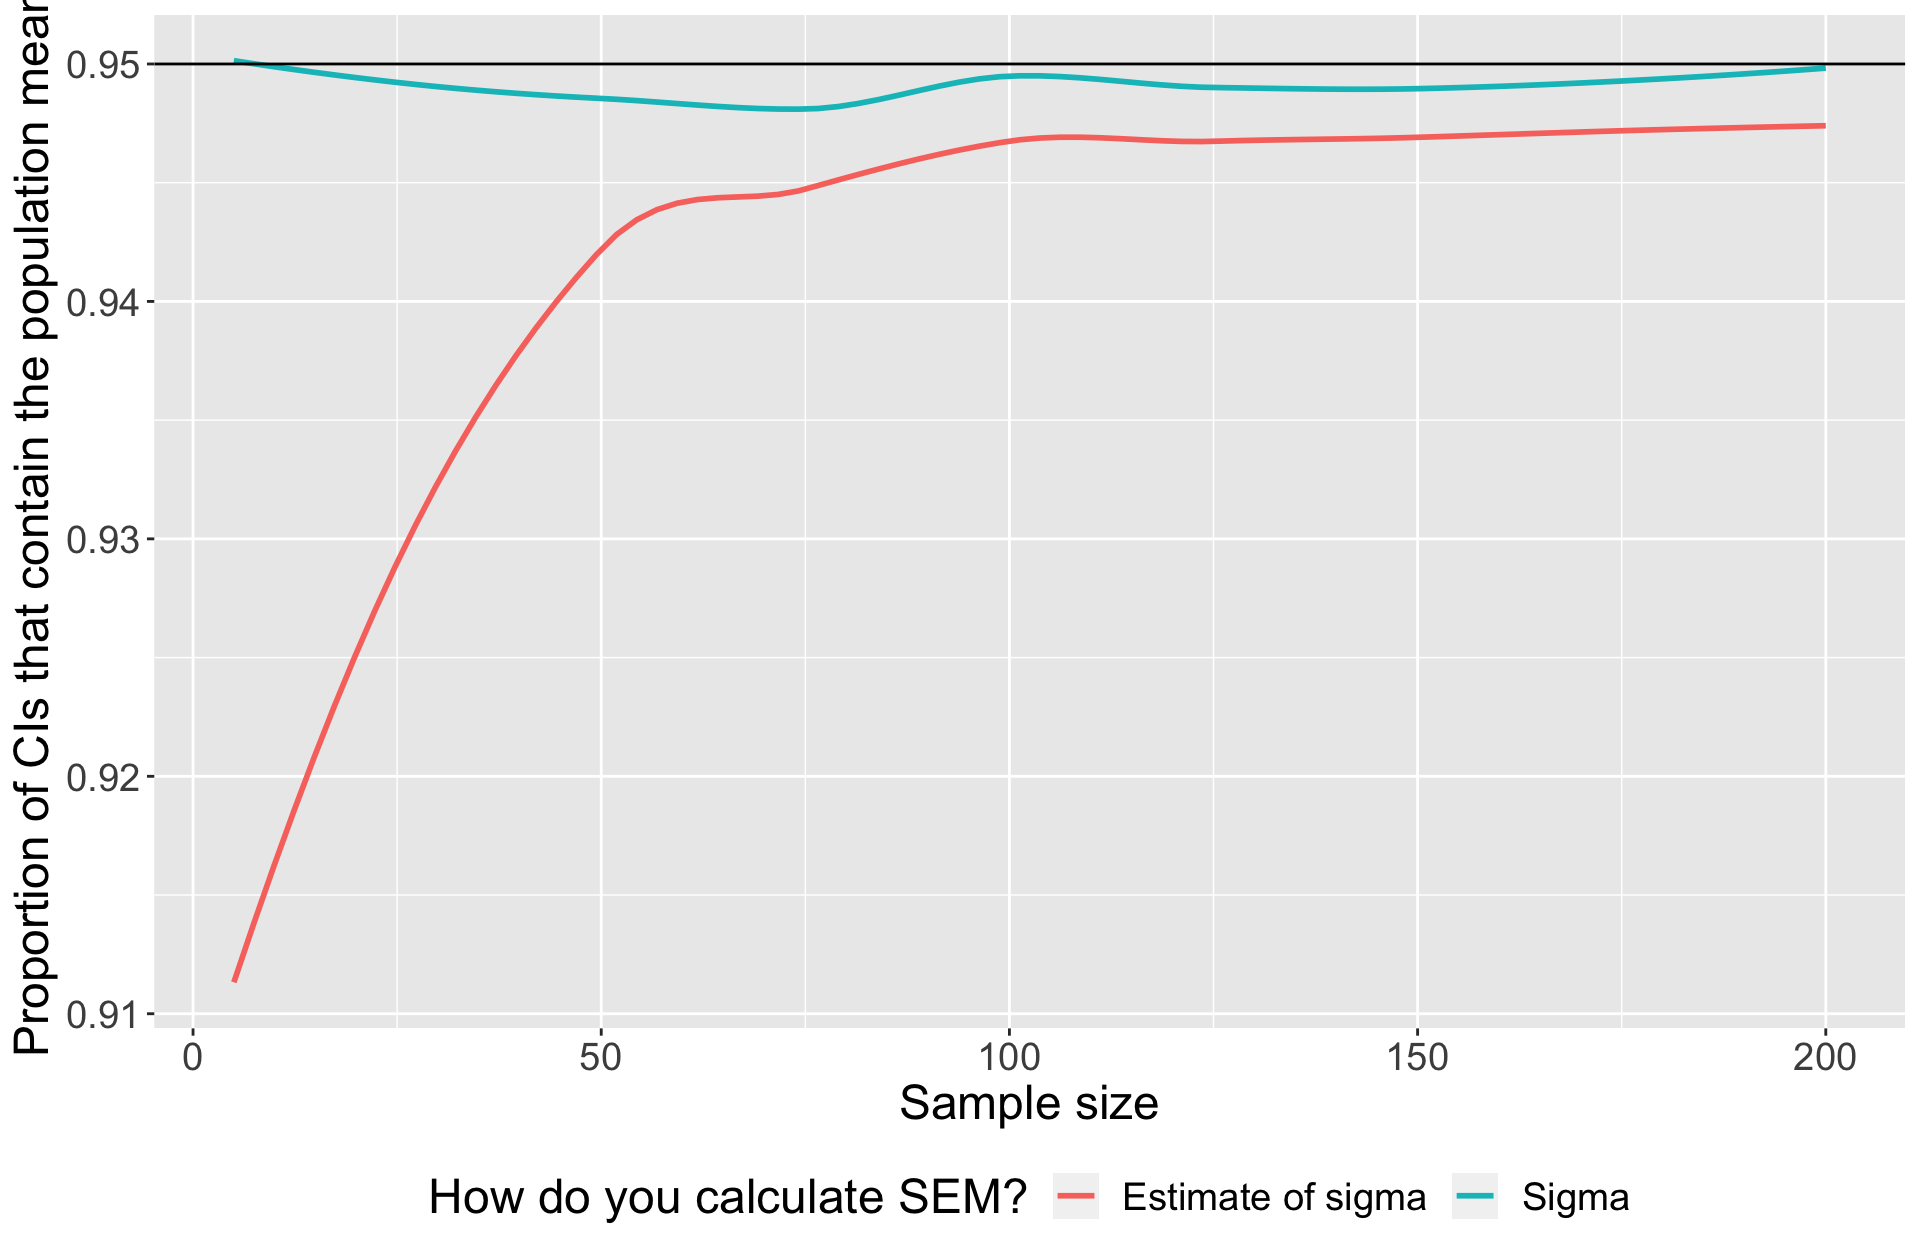
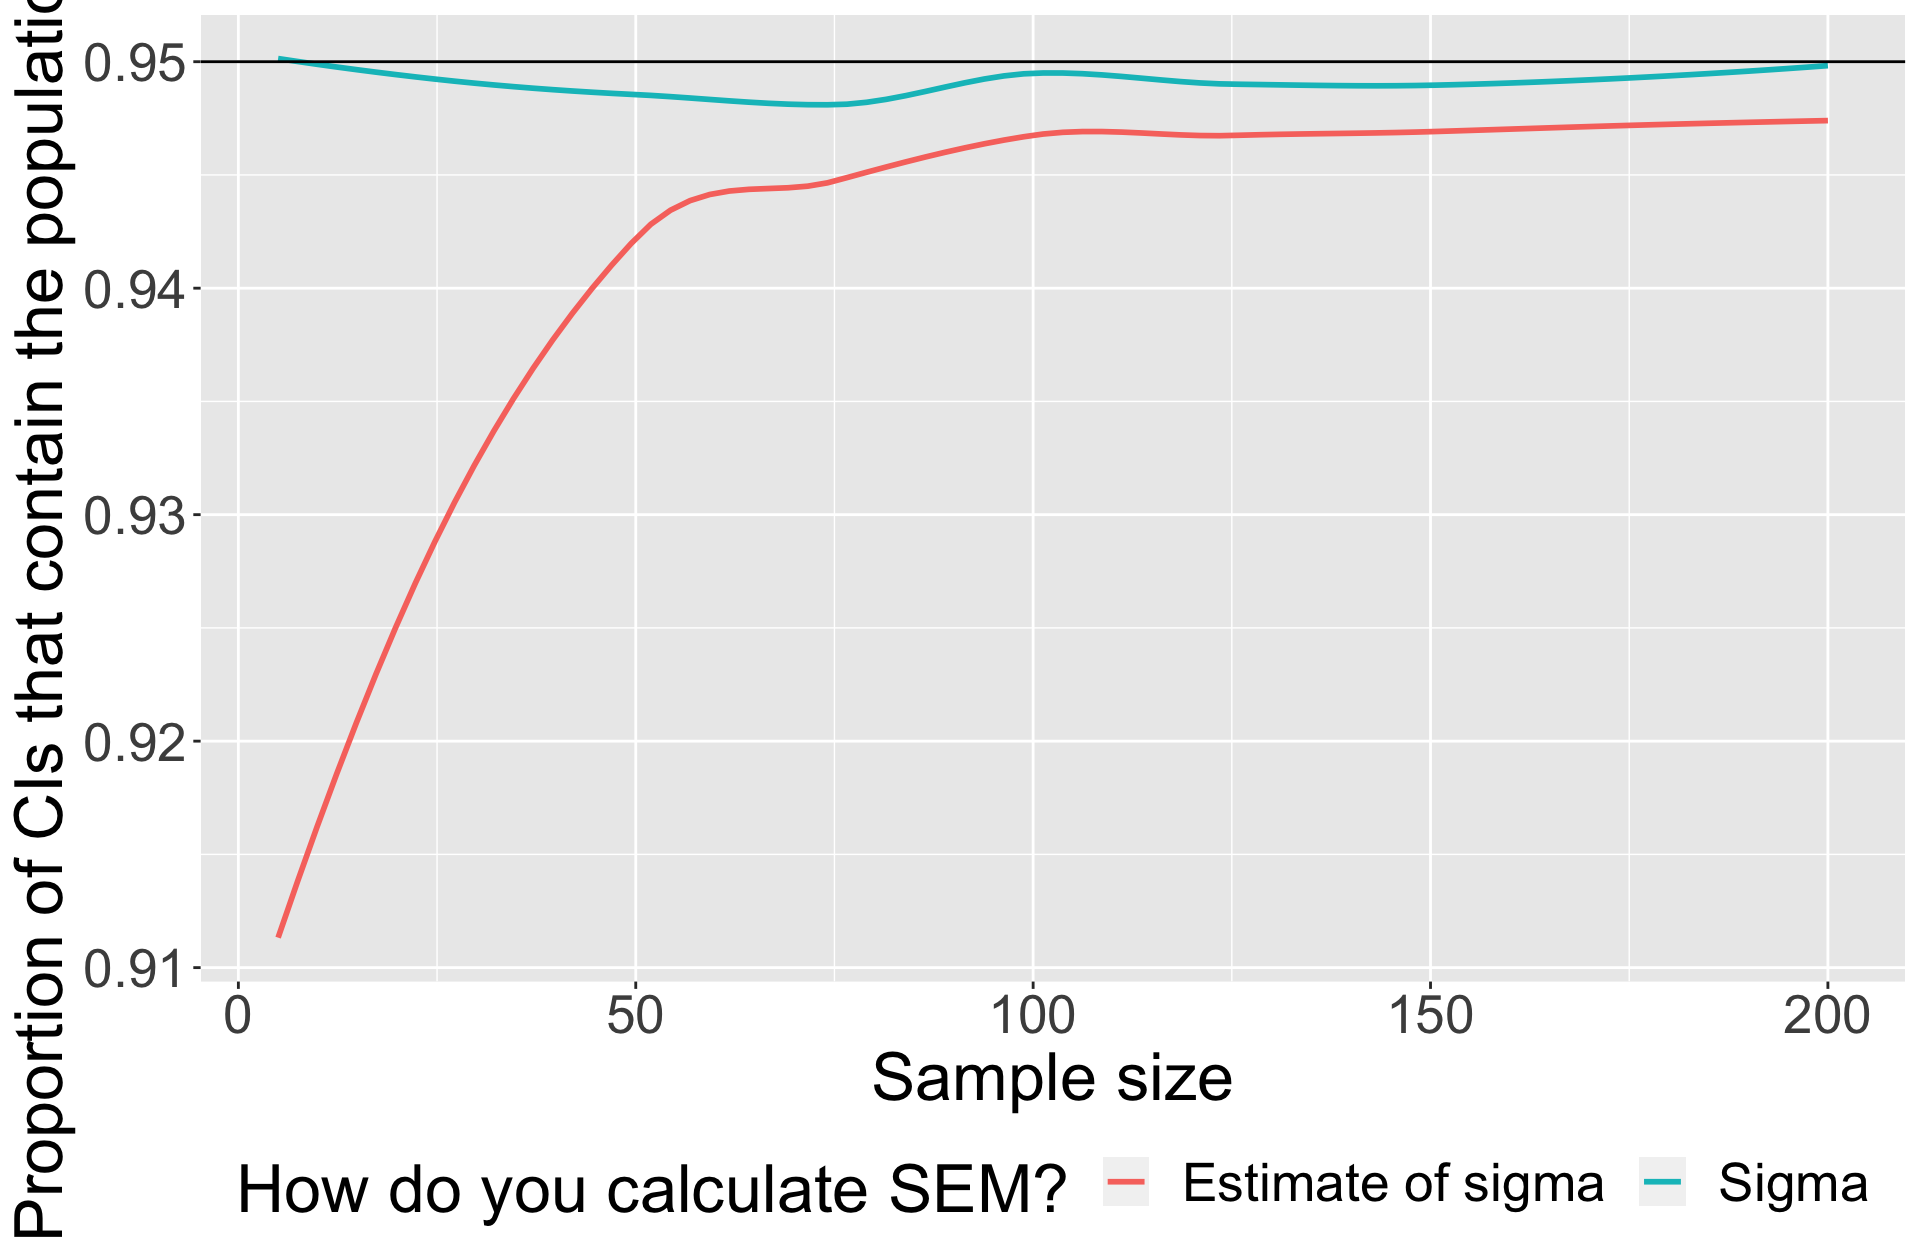
link lecture 9

diff --git a/index.html b/index.html
@@ -14,7 +14,7 @@
 
 <title>Psy 611: Data Analysis I</title>
 
-<script src="site_libs/header-attrs-2.11/header-attrs.js"></script>
+<script src="site_libs/header-attrs-2.16/header-attrs.js"></script>
 <script src="site_libs/jquery-3.6.0/jquery-3.6.0.min.js"></script>
 <meta name="viewport" content="width=device-width, initial-scale=1" />
 <link href="site_libs/bootstrap-3.3.5/css/cosmo.min.css" rel="stylesheet" />
@@ -66,6 +66,7 @@ if (window.hljs) {
 
 
 
+
 <style type = "text/css">
 .main-container {
   max-width: 940px;
@@ -86,6 +87,9 @@ button.code-folding-btn:focus {
 }
 summary {
   display: list-item;
+}
+details > summary > p:only-child {
+  display: inline;
 }
 pre code {
   padding: 0;
@@ -143,11 +147,15 @@ $(document).ready(function () {
     href = "index.html";
   var menuAnchor = $('a[href="' + href + '"]');
 
-  // mark it active
-  menuAnchor.tab('show');
-
-  // if it's got a parent navbar menu mark it active as well
-  menuAnchor.closest('li.dropdown').addClass('active');
+  // mark the anchor link active (and if it's in a dropdown, also mark that active)
+  var dropdown = menuAnchor.closest('li.dropdown');
+  if (window.bootstrap) { // Bootstrap 4+
+    menuAnchor.addClass('active');
+    dropdown.find('> .dropdown-toggle').addClass('active');
+  } else { // Bootstrap 3
+    menuAnchor.parent().addClass('active');
+    dropdown.addClass('active');
+  }
 
   // Navbar adjustments
   var navHeight = $(".navbar").first().height() + 15;
@@ -311,7 +319,7 @@ div.tocify {
 <div class="navbar navbar-default  navbar-fixed-top" role="navigation">
   <div class="container">
     <div class="navbar-header">
-      <button type="button" class="navbar-toggle collapsed" data-toggle="collapse" data-target="#navbar">
+      <button type="button" class="navbar-toggle collapsed" data-toggle="collapse" data-bs-toggle="collapse" data-target="#navbar" data-bs-target="#navbar">
         <span class="icon-bar"></span>
         <span class="icon-bar"></span>
         <span class="icon-bar"></span>
@@ -324,7 +332,7 @@ div.tocify {
   <a href="schedule.html">Syllabus</a>
 </li>
 <li class="dropdown">
-  <a href="#" class="dropdown-toggle" data-toggle="dropdown" role="button" aria-expanded="false">
+  <a href="#" class="dropdown-toggle" data-toggle="dropdown" role="button" data-bs-toggle="dropdown" aria-expanded="false">
     Lectures
      
     <span class="caret"></span>
@@ -354,10 +362,13 @@ div.tocify {
     <li>
       <a href="lectures/08-normal.html">8-Normal Distributions</a>
     </li>
+    <li>
+      <a href="lectures/09-sampling.html">9-Sampling</a>
+    </li>
   </ul>
 </li>
 <li class="dropdown">
-  <a href="#" class="dropdown-toggle" data-toggle="dropdown" role="button" aria-expanded="false">
+  <a href="#" class="dropdown-toggle" data-toggle="dropdown" role="button" data-bs-toggle="dropdown" aria-expanded="false">
     Labs
      
     <span class="caret"></span>
@@ -389,7 +400,7 @@ div.tocify {
       </ul>
       <ul class="nav navbar-nav navbar-right">
         <li class="dropdown">
-  <a href="#" class="dropdown-toggle" data-toggle="dropdown" role="button" aria-expanded="false">
+  <a href="#" class="dropdown-toggle" data-toggle="dropdown" role="button" data-bs-toggle="dropdown" aria-expanded="false">
     Previous Years
      
     <span class="caret"></span>

diff --git a/lectures/09-sampling-speaker.html b/lectures/09-sampling-speaker.html
@@ -391,7 +391,6 @@
 <li class="fragment"><p>Getting data into R is surprisingly hard</p></li>
 <li class="fragment"><p>The console doesn’t come with you</p></li>
 <li class="fragment"><p>knit early and often</p></li>
-<li class="fragment"><p><code>#</code> for commenting code, type outside your chunks for responses</p></li>
 <li class="fragment"><p>Homework is for learning, not for testing</p></li>
 <li class="fragment"><p>Work together</p></li>
 </ul>
@@ -956,7 +955,7 @@
 <span id="cb9-41"><a href="#cb9-41"></a>  <span class="fu">geom_hline</span>(<span class="fu">aes</span>(<span class="at">yintercept =</span> .<span class="dv">95</span>), <span class="at">color =</span> <span class="st">"black"</span>) <span class="sc">+</span></span>
 <span id="cb9-42"><a href="#cb9-42"></a>  <span class="fu">scale_color_discrete</span>(<span class="st">"How do you calculate SEM?"</span>) <span class="sc">+</span></span>
 <span id="cb9-43"><a href="#cb9-43"></a>  <span class="fu">labs</span>(<span class="at">x =</span> <span class="st">"Sample size"</span>, <span class="at">y =</span> <span class="st">"Proportion of CIs that contain the population mean"</span>) <span class="sc">+</span></span>
-<span id="cb9-44"><a href="#cb9-44"></a>  <span class="fu">theme</span>(<span class="at">text =</span> <span class="fu">element_text</span>(<span class="at">size =</span> <span class="dv">18</span>), <span class="at">legend.position =</span> <span class="st">"bottom"</span>)</span></code><button title="Copy to Clipboard" class="code-copy-button"><i class="bi"></i></button></pre></div>
+<span id="cb9-44"><a href="#cb9-44"></a>  <span class="fu">theme</span>(<span class="at">text =</span> <span class="fu">element_text</span>(<span class="at">size =</span> <span class="dv">25</span>), <span class="at">legend.position =</span> <span class="st">"bottom"</span>)</span></code><button title="Copy to Clipboard" class="code-copy-button"><i class="bi"></i></button></pre></div>
 </details>
 <div class="cell-output-display">
 <p><img data-src="09-sampling_files/figure-revealjs/unnamed-chunk-13-1.png" width="960"></p>

diff --git a/lectures/09-sampling.html b/lectures/09-sampling.html
@@ -391,7 +391,6 @@
 <li class="fragment"><p>Getting data into R is surprisingly hard</p></li>
 <li class="fragment"><p>The console doesn’t come with you</p></li>
 <li class="fragment"><p>knit early and often</p></li>
-<li class="fragment"><p><code>#</code> for commenting code, type outside your chunks for responses</p></li>
 <li class="fragment"><p>Homework is for learning, not for testing</p></li>
 <li class="fragment"><p>Work together</p></li>
 </ul>
@@ -956,7 +955,7 @@
 <span id="cb9-41"><a href="#cb9-41"></a>  <span class="fu">geom_hline</span>(<span class="fu">aes</span>(<span class="at">yintercept =</span> .<span class="dv">95</span>), <span class="at">color =</span> <span class="st">"black"</span>) <span class="sc">+</span></span>
 <span id="cb9-42"><a href="#cb9-42"></a>  <span class="fu">scale_color_discrete</span>(<span class="st">"How do you calculate SEM?"</span>) <span class="sc">+</span></span>
 <span id="cb9-43"><a href="#cb9-43"></a>  <span class="fu">labs</span>(<span class="at">x =</span> <span class="st">"Sample size"</span>, <span class="at">y =</span> <span class="st">"Proportion of CIs that contain the population mean"</span>) <span class="sc">+</span></span>
-<span id="cb9-44"><a href="#cb9-44"></a>  <span class="fu">theme</span>(<span class="at">text =</span> <span class="fu">element_text</span>(<span class="at">size =</span> <span class="dv">18</span>), <span class="at">legend.position =</span> <span class="st">"bottom"</span>)</span></code><button title="Copy to Clipboard" class="code-copy-button"><i class="bi"></i></button></pre></div>
+<span id="cb9-44"><a href="#cb9-44"></a>  <span class="fu">theme</span>(<span class="at">text =</span> <span class="fu">element_text</span>(<span class="at">size =</span> <span class="dv">25</span>), <span class="at">legend.position =</span> <span class="st">"bottom"</span>)</span></code><button title="Copy to Clipboard" class="code-copy-button"><i class="bi"></i></button></pre></div>
 </details>
 <div class="cell-output-display">
 <p><img data-src="09-sampling_files/figure-revealjs/unnamed-chunk-13-1.png" width="960"></p>

diff --git a/bonus.html b/bonus.html
@@ -361,6 +361,9 @@ div.tocify {
     <li>
       <a href="lectures/08-normal.html">8-Normal Distributions</a>
     </li>
+    <li>
+      <a href="lectures/09-sampling.html">9-Sampling</a>
+    </li>
   </ul>
 </li>
 <li class="dropdown">
@@ -378,6 +381,9 @@ div.tocify {
     </li>
     <li>
       <a href="labs/lab-3_instructor.html">3 - Functional Programming</a>
+    </li>
+    <li>
+      <a href="labs/lab-4.html">4 - Probability Distributions</a>
     </li>
   </ul>
 </li>

diff --git a/bonus_old.html b/bonus_old.html
@@ -361,6 +361,9 @@ div.tocify {
     <li>
       <a href="lectures/08-normal.html">8-Normal Distributions</a>
     </li>
+    <li>
+      <a href="lectures/09-sampling.html">9-Sampling</a>
+    </li>
   </ul>
 </li>
 <li class="dropdown">
@@ -378,6 +381,9 @@ div.tocify {
     </li>
     <li>
       <a href="labs/lab-3_instructor.html">3 - Functional Programming</a>
+    </li>
+    <li>
+      <a href="labs/lab-4.html">4 - Probability Distributions</a>
     </li>
   </ul>
 </li>

diff --git a/homework.html b/homework.html
@@ -361,6 +361,9 @@ div.tocify {
     <li>
       <a href="lectures/08-normal.html">8-Normal Distributions</a>
     </li>
+    <li>
+      <a href="lectures/09-sampling.html">9-Sampling</a>
+    </li>
   </ul>
 </li>
 <li class="dropdown">
@@ -378,6 +381,9 @@ div.tocify {
     </li>
     <li>
       <a href="labs/lab-3_instructor.html">3 - Functional Programming</a>
+    </li>
+    <li>
+      <a href="labs/lab-4.html">4 - Probability Distributions</a>
     </li>
   </ul>
 </li>

diff --git a/oral_exam.html b/oral_exam.html
@@ -361,6 +361,9 @@ div.tocify {
     <li>
       <a href="lectures/08-normal.html">8-Normal Distributions</a>
     </li>
+    <li>
+      <a href="lectures/09-sampling.html">9-Sampling</a>
+    </li>
   </ul>
 </li>
 <li class="dropdown">
@@ -378,6 +381,9 @@ div.tocify {
     </li>
     <li>
       <a href="labs/lab-3_instructor.html">3 - Functional Programming</a>
+    </li>
+    <li>
+      <a href="labs/lab-4.html">4 - Probability Distributions</a>
     </li>
   </ul>
 </li>

diff --git a/schedule.html b/schedule.html
@@ -361,6 +361,9 @@ div.tocify {
     <li>
       <a href="lectures/08-normal.html">8-Normal Distributions</a>
     </li>
+    <li>
+      <a href="lectures/09-sampling.html">9-Sampling</a>
+    </li>
   </ul>
 </li>
 <li class="dropdown">
@@ -378,6 +381,9 @@ div.tocify {
     </li>
     <li>
       <a href="labs/lab-3_instructor.html">3 - Functional Programming</a>
+    </li>
+    <li>
+      <a href="labs/lab-4.html">4 - Probability Distributions</a>
     </li>
   </ul>
 </li>
